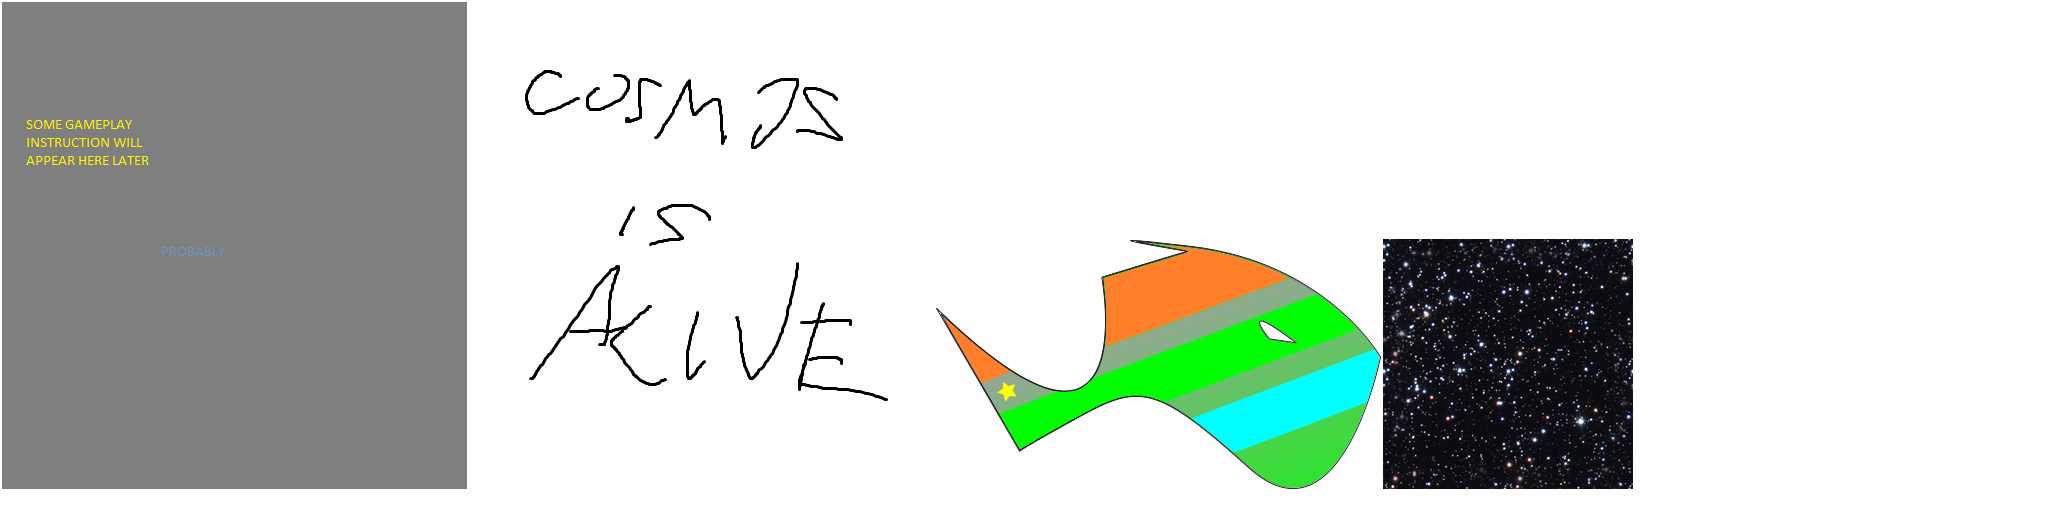
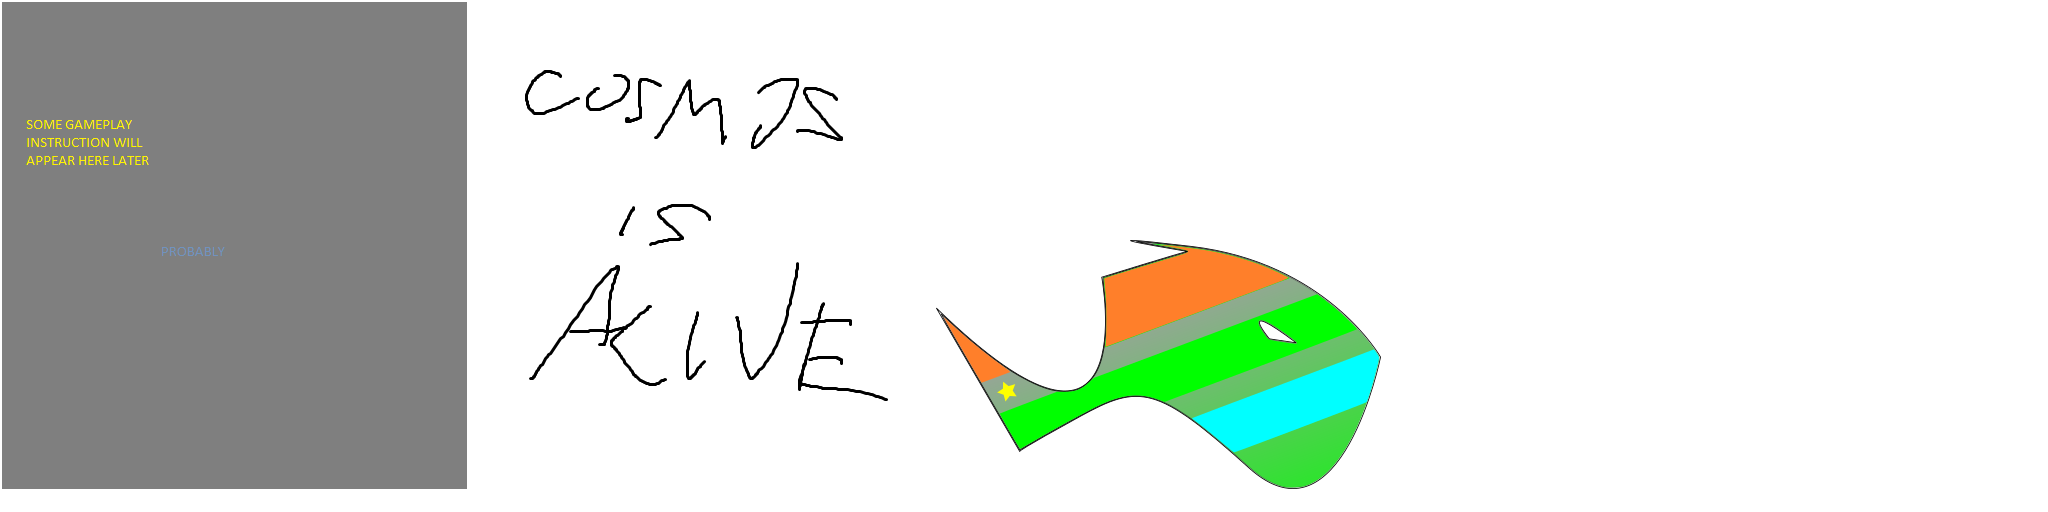
Add simple background render system in place of sky-box/sphere with stars.

Changed region(s): [[0.6562, 0.4688, 0.8125, 0.9688]]

diff --git a/core/src/net/namekdev/cosmos_is_alive/Assets.java b/core/src/net/namekdev/cosmos_is_alive/Assets.java
@@ -1,6 +1,8 @@
 package net.namekdev.cosmos_is_alive;
 
 import com.badlogic.gdx.assets.AssetManager;
+import com.badlogic.gdx.graphics.Texture;
+import com.badlogic.gdx.graphics.Texture.TextureWrap;
 import com.badlogic.gdx.graphics.g2d.BitmapFont;
 import com.badlogic.gdx.graphics.g2d.TextureAtlas;
 import com.badlogic.gdx.graphics.g2d.TextureRegion;
@@ -9,6 +11,8 @@ import com.badlogic.gdx.graphics.g3d.Model;
 public class Assets {
 	private static final String BASIC_TEXTURES_ATLAS = "graphics/basic/pack.atlas";
 	private static final String PLANET_TEXTURES_ATLAS = "graphics/planets/pack.atlas";
+	private static final String BACKGROUND_PATH = "graphics/background/";
+	private static final String STARS_BACKGROUND = BACKGROUND_PATH + "stars.jpg";
 
 	public BitmapFont font;
 	public AssetManager assets;
@@ -19,12 +23,13 @@ public class Assets {
 	public TextureRegion intro;
 	public TextureRegion instruction;
 	public TextureRegion playerTex;
-	public TextureRegion stars;
 
 	public TextureAtlas planets;
 	public TextureRegion planetEarth;
 	public TextureRegion planetSaturn;
 	public TextureRegion planetNeptune;
+
+	public Texture stars;
 
 
 	public void loadAll() {
@@ -34,6 +39,7 @@ public class Assets {
 		assets.load("models/ship.g3db", Model.class);
 		assets.load(BASIC_TEXTURES_ATLAS, TextureAtlas.class);
 		assets.load(PLANET_TEXTURES_ATLAS, TextureAtlas.class);
+		assets.load(STARS_BACKGROUND, Texture.class);
 		assets.finishLoading();
 
 		ship = assets.get("models/ship.g3db", Model.class);
@@ -42,12 +48,14 @@ public class Assets {
 		intro = textures.findRegion("intro");
 		instruction = textures.findRegion("instruction");
 		playerTex = textures.findRegion("star_fish");
-		stars = textures.findRegion("stars");
 
 		planets = assets.get(PLANET_TEXTURES_ATLAS);
 		planetEarth = planets.findRegion("earth_clouds");
 		planetSaturn = planets.findRegion("saturn");
 		planetNeptune = planets.findRegion("neptune");
+
+		stars = assets.get(STARS_BACKGROUND);
+		stars.setWrap(TextureWrap.Repeat, TextureWrap.Repeat);
 	}
 
 }

diff --git a/core/src/net/namekdev/cosmos_is_alive/factory/EntityFactory.java b/core/src/net/namekdev/cosmos_is_alive/factory/EntityFactory.java
@@ -17,6 +17,7 @@ import com.artemis.annotations.Wire;
 import com.artemis.managers.TagManager;
 import com.badlogic.gdx.graphics.Color;
 import com.badlogic.gdx.graphics.GL20;
+import com.badlogic.gdx.graphics.Texture;
 import com.badlogic.gdx.graphics.VertexAttribute;
 import com.badlogic.gdx.graphics.VertexAttributes;
 import com.badlogic.gdx.graphics.VertexAttributes.Usage;
@@ -25,6 +26,7 @@ import com.badlogic.gdx.graphics.g3d.Material;
 import com.badlogic.gdx.graphics.g3d.Model;
 import com.badlogic.gdx.graphics.g3d.ModelInstance;
 import com.badlogic.gdx.graphics.g3d.attributes.ColorAttribute;
+import com.badlogic.gdx.graphics.g3d.attributes.IntAttribute;
 import com.badlogic.gdx.graphics.g3d.attributes.TextureAttribute;
 import com.badlogic.gdx.graphics.g3d.decals.Decal;
 import com.badlogic.gdx.graphics.g3d.utils.ModelBuilder;
@@ -91,7 +93,7 @@ public class EntityFactory extends PassiveSystem {
 	public void createStars(float mapWidth, float mapHeight, float mapDepth) {
 		Entity stars = null;
 		EntityEdit e = null;
-
+/*
 		// front
 		stars = world.createEntity();
 		e = stars.edit();
@@ -126,7 +128,19 @@ public class EntityFactory extends PassiveSystem {
 		stars = world.createEntity();
 		e = stars.edit();
 		setDecal(e, assets.stars, mapWidth, mapDepth);
-		xyz(e, 0, mapWidth/2, 0).look(0, -1, 0);
+		xyz(e, 0, mapWidth/2, 0).look(0, -1, 0);*/
+
+		stars = world.createEntity();
+		e = stars.edit();
+
+		ModelBuilder mb = new ModelBuilder();
+
+		TextureAttribute texAttr = TextureAttribute.createDiffuse(assets.stars);
+		Material material = new Material(texAttr);
+		Model model = mb.createSphere(mapWidth, mapHeight, mapDepth, 50, 50, material, Usage.Position|Usage.TextureCoordinates|Usage.Normal);
+		model.materials.get(0).set(new IntAttribute(IntAttribute.CullFace, 0));
+		setModel(e, new ModelInstance(model));
+		xyz(e, 0, 0, 0);
 	}
 
 	public Entity createPlanet(float x, float y, float z, float size, float orbitAltitude, TextureRegion texture) {

diff --git a/core/src/net/namekdev/cosmos_is_alive/screen/GameScreen.java b/core/src/net/namekdev/cosmos_is_alive/screen/GameScreen.java
@@ -13,6 +13,7 @@ import net.namekdev.cosmos_is_alive.event.WonLevelEvent;
 import net.namekdev.cosmos_is_alive.factory.EntityFactory;
 import net.namekdev.cosmos_is_alive.manager.AspectHelpers;
 import net.namekdev.cosmos_is_alive.manager.WorldInitManager;
+import net.namekdev.cosmos_is_alive.system.BackgroundRenderSystem;
 import net.namekdev.cosmos_is_alive.system.CameraSystem;
 import net.namekdev.cosmos_is_alive.system.GameStateSystem;
 import net.namekdev.cosmos_is_alive.system.InputSystem;
@@ -60,6 +61,7 @@ public class GameScreen extends BaseScreen<GameScreen> {
 			.with(new CollisionSystem())
 
 			.with(new CameraSystem())
+			.with(new BackgroundRenderSystem())
 			.with(new RenderSystem())
 //			.with(new CollisionDebugSystem())
 			.with(new OperationSystem())

diff --git a/core/src/net/namekdev/cosmos_is_alive/system/BackgroundRenderSystem.java b/core/src/net/namekdev/cosmos_is_alive/system/BackgroundRenderSystem.java
@@ -1,0 +1,27 @@
+package net.namekdev.cosmos_is_alive.system;
+
+import static com.badlogic.gdx.Gdx.graphics;
+
+import net.namekdev.cosmos_is_alive.Assets;
+
+import com.artemis.BaseSystem;
+import com.artemis.annotations.Wire;
+import com.badlogic.gdx.Gdx;
+import com.badlogic.gdx.graphics.GL20;
+import com.badlogic.gdx.graphics.g2d.SpriteBatch;
+
+public class BackgroundRenderSystem extends BaseSystem {
+	@Wire Assets assets;
+	@Wire SpriteBatch sprites;
+
+	@Override
+	protected void processSystem() {
+		Gdx.gl.glClearColor(0, 0, 1, 1f);
+		Gdx.gl.glClear(GL20.GL_COLOR_BUFFER_BIT | GL20.GL_DEPTH_BUFFER_BIT);
+
+		sprites.begin();
+		sprites.draw(assets.stars, 0, 0, graphics.getWidth(), graphics.getHeight());
+		sprites.end();
+	}
+
+}

diff --git a/core/src/net/namekdev/cosmos_is_alive/manager/WorldInitManager.java b/core/src/net/namekdev/cosmos_is_alive/manager/WorldInitManager.java
@@ -27,7 +27,7 @@ public class WorldInitManager extends BaseSystem {
 
 
 	private void init() {
-		factory.createStars(C.World.StarBoxSize, C.World.StarBoxSize, C.World.StarBoxSize);
+//		factory.createStars(C.World.StarBoxSize, C.World.StarBoxSize, C.World.StarBoxSize);
 
 		/*
 		Entity planet = factory.createPlanet(4, 0, -10, 10, 2, assets.planetSaturn);

diff --git a/core/src/net/namekdev/cosmos_is_alive/system/base/render/RenderSystem.java b/core/src/net/namekdev/cosmos_is_alive/system/base/render/RenderSystem.java
@@ -142,10 +142,6 @@ public class RenderSystem extends BaseEntitySystem {
 			dirtyOrder = false;
 		}
 
-		Gdx.gl.glClearColor(0, 0, 1, 1f);
-		Gdx.gl.glClear(GL20.GL_COLOR_BUFFER_BIT | GL20.GL_DEPTH_BUFFER_BIT);
-
-
 		lastRenderer = null;
 
 		final long[] metas = sorted.items;
